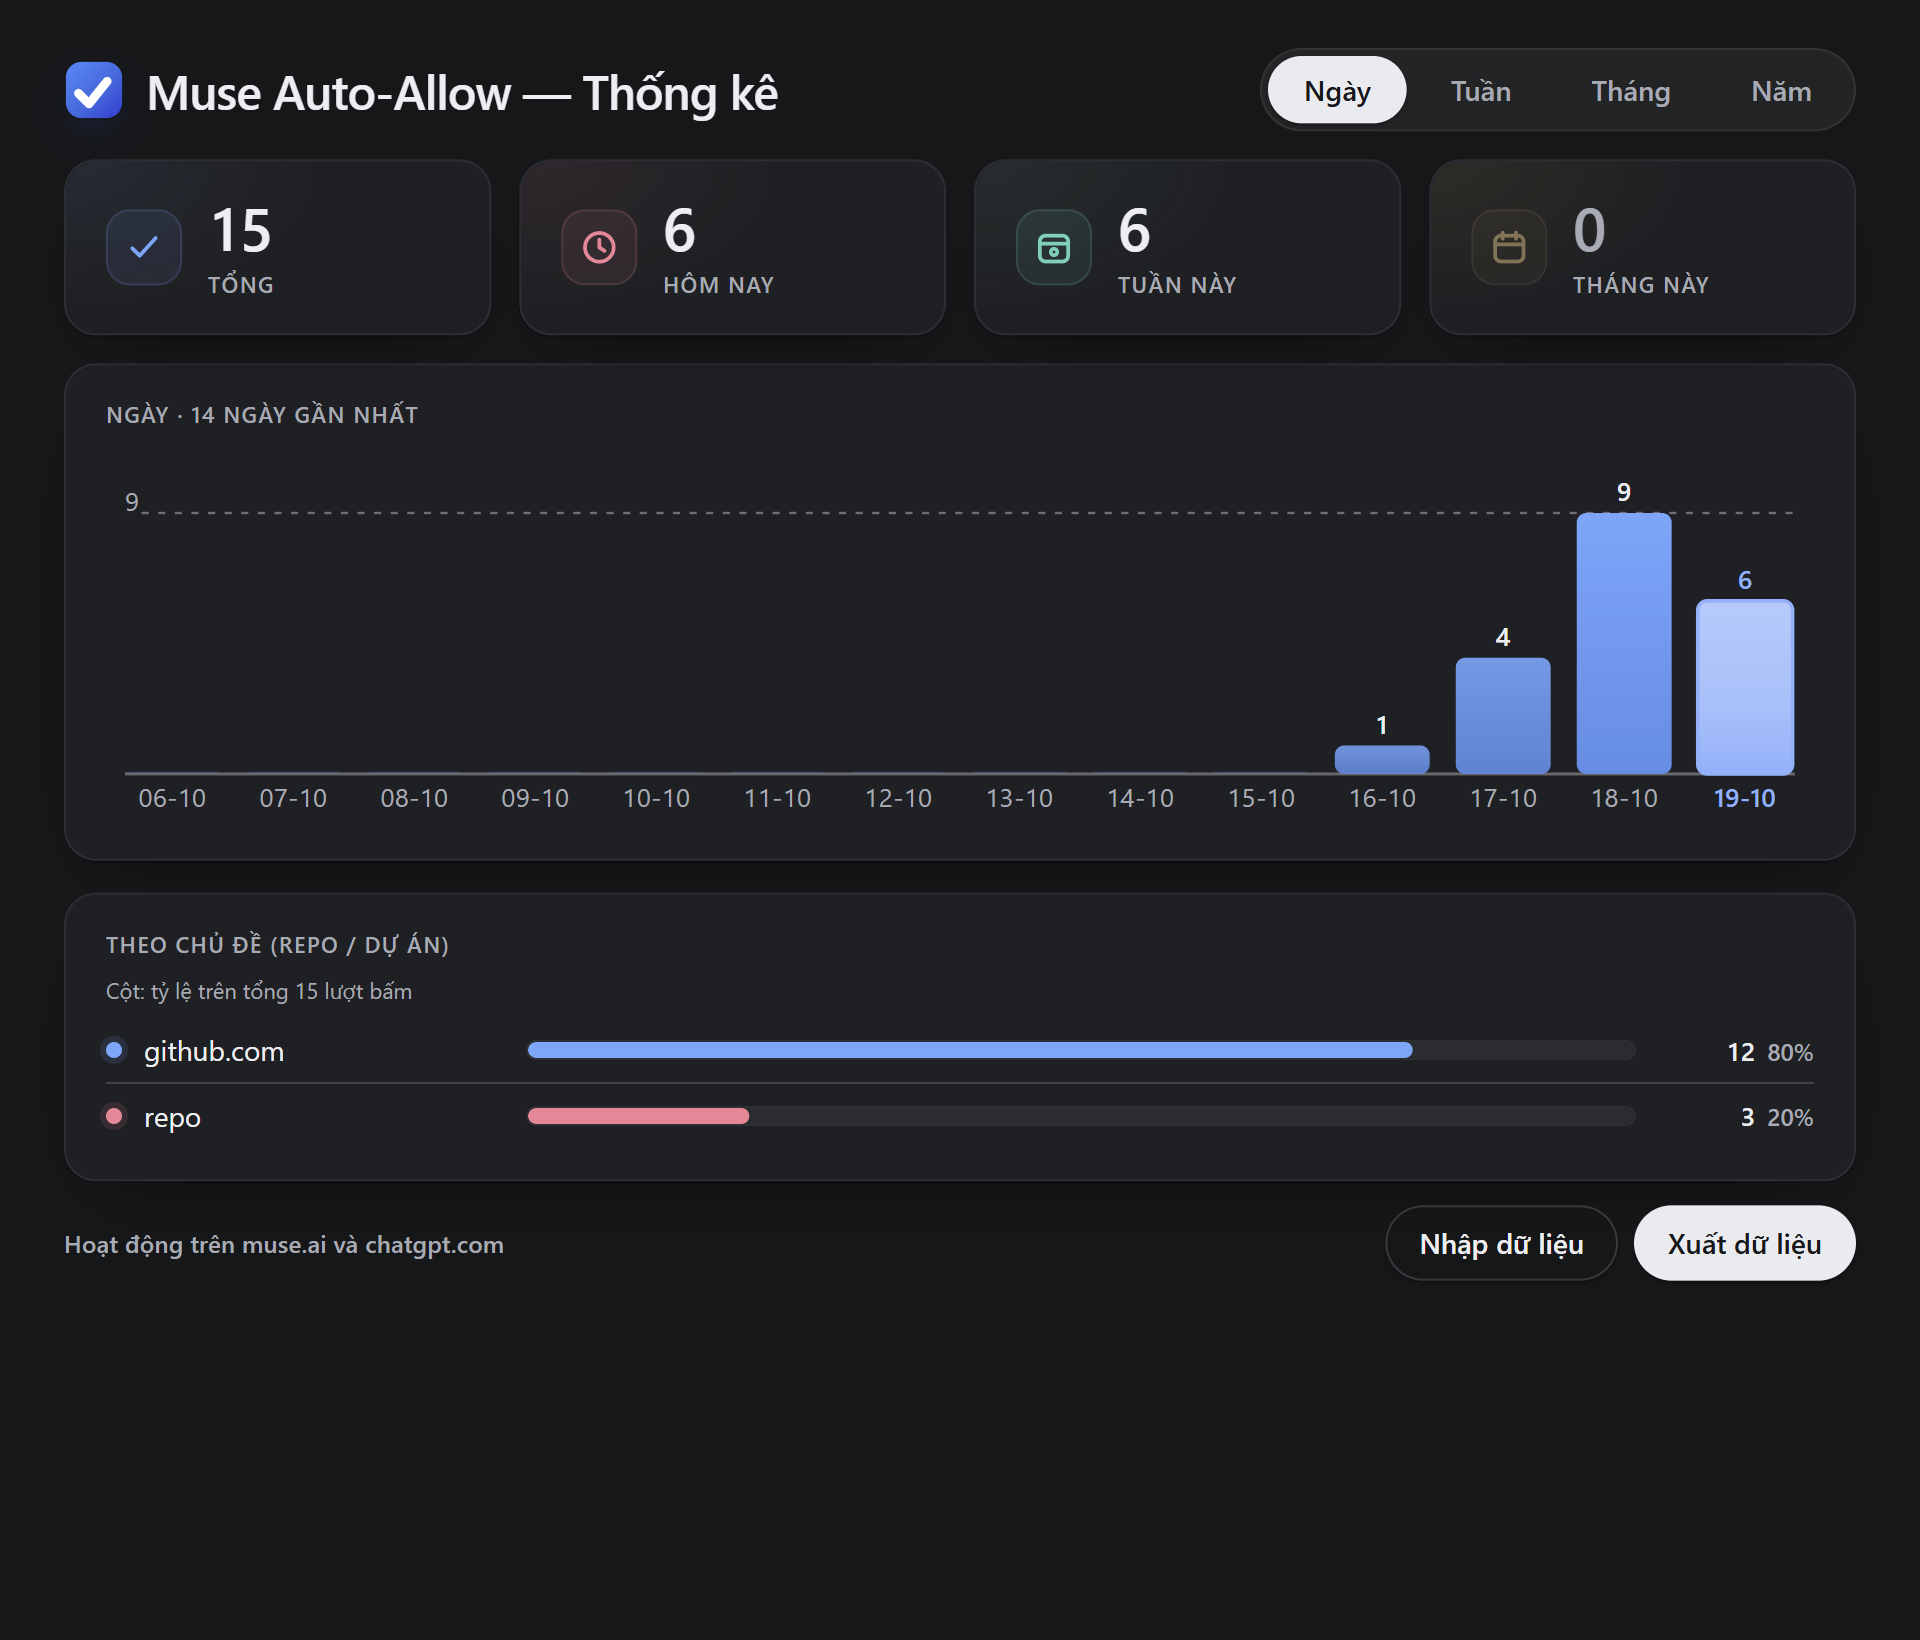
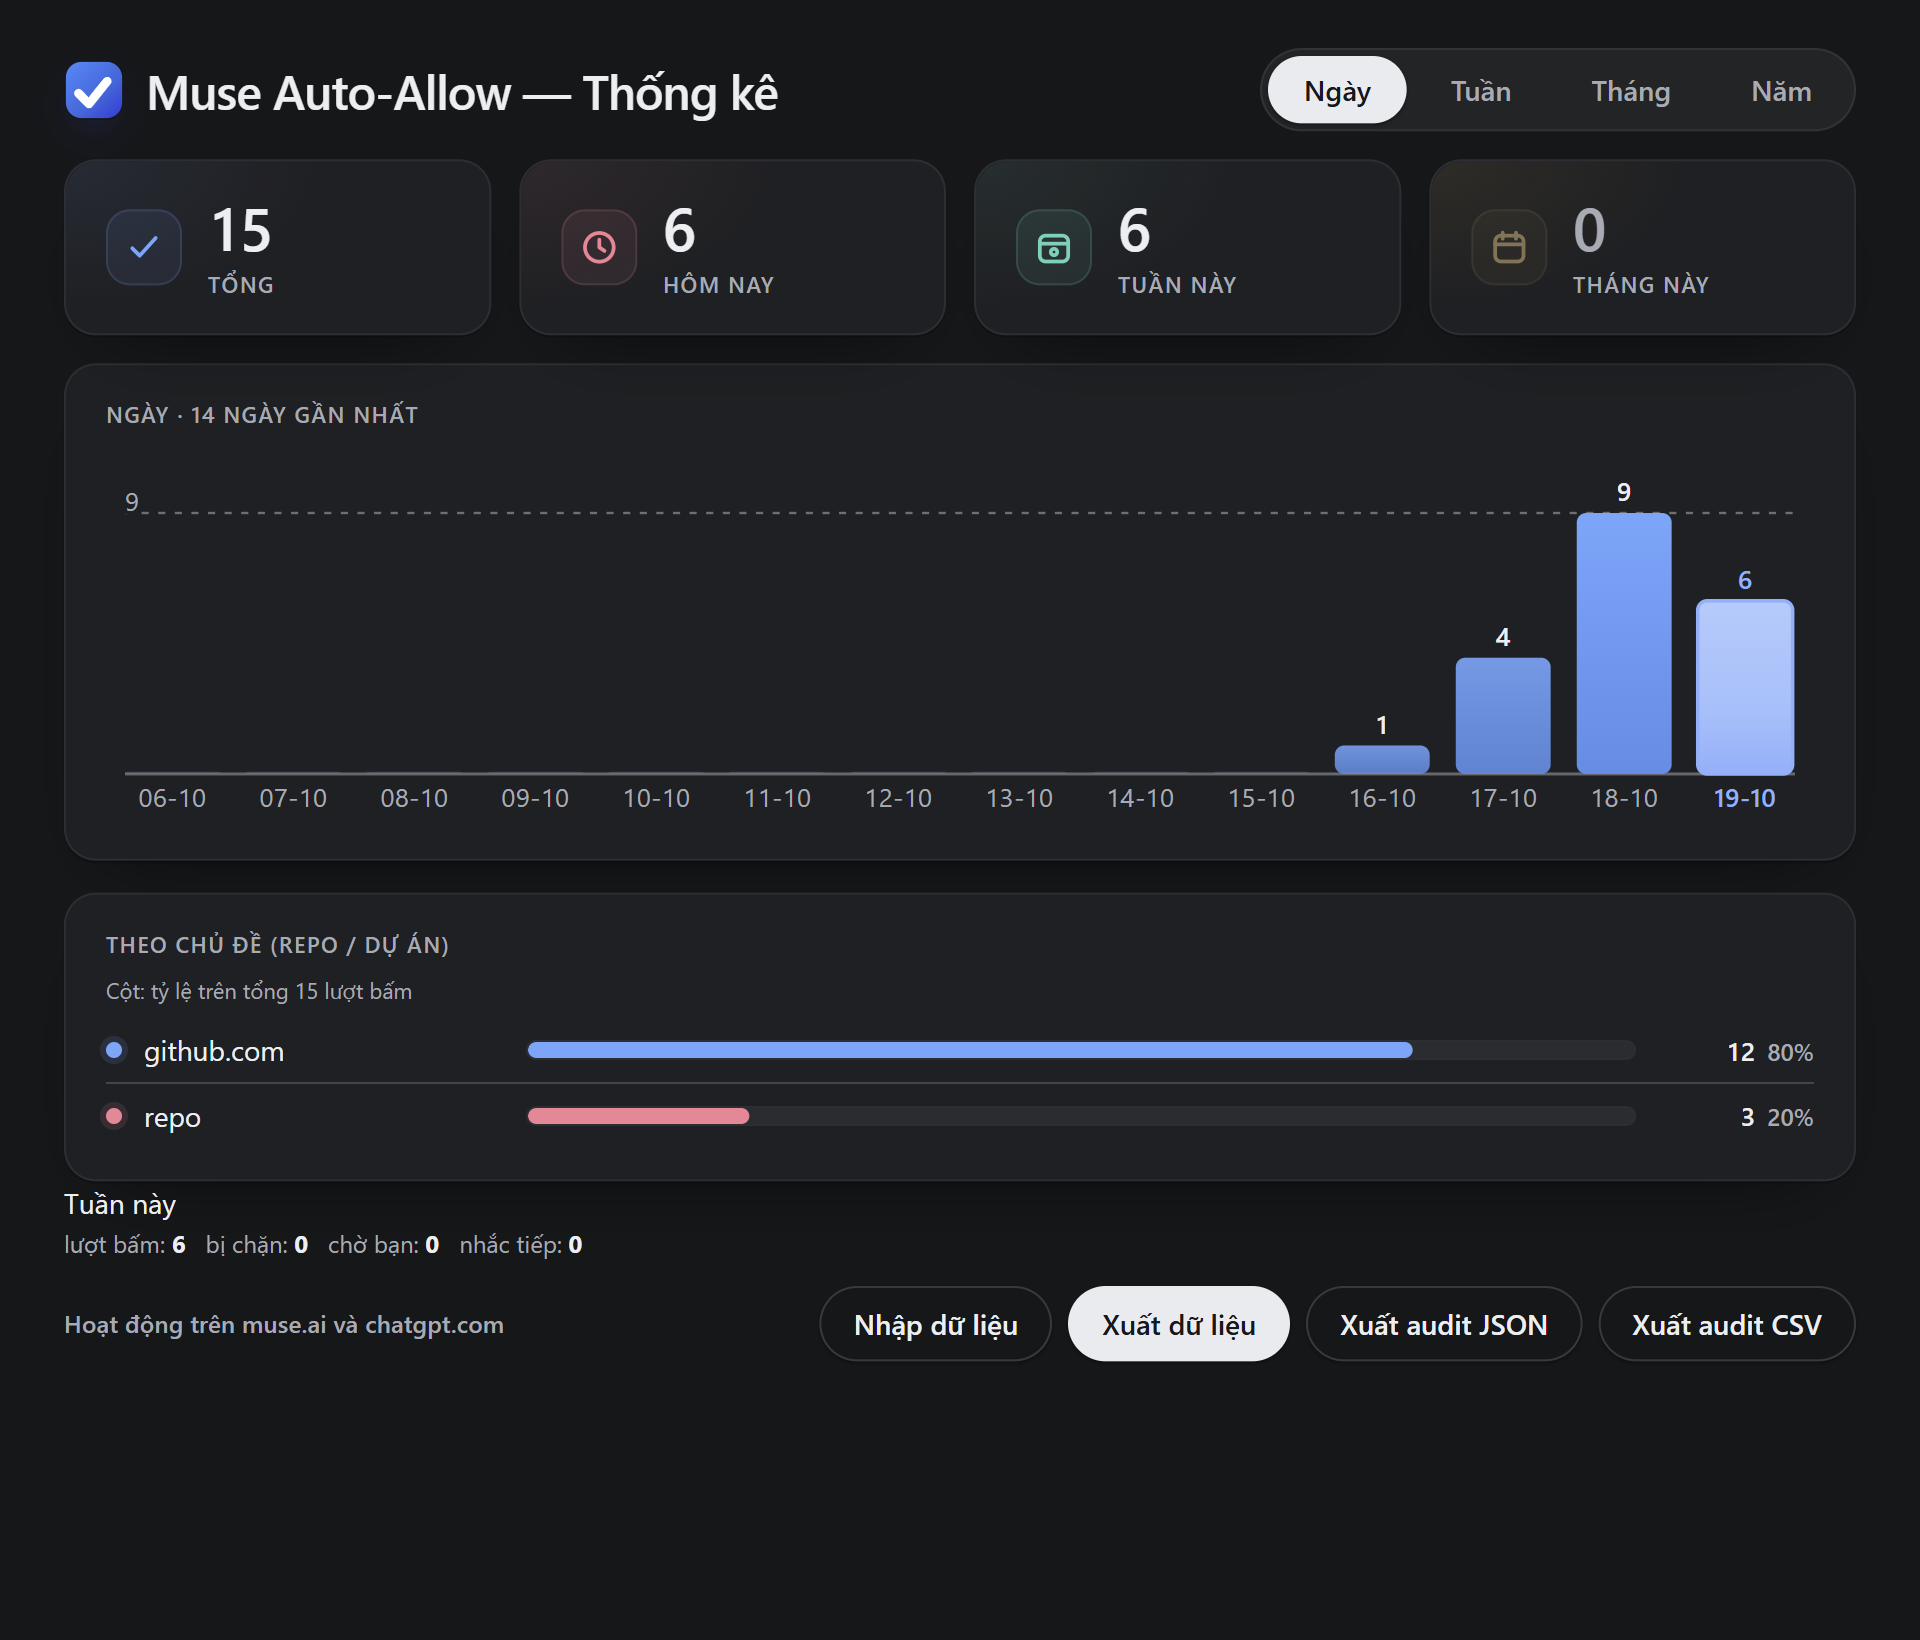
store kit v1.22.0: refresh screenshots from real UI (Safety shows the layered allow/ask/block rules), LISTING 1.22.0 + what's-new (1.19-1.22)

diff --git a/store/LISTING.md b/store/LISTING.md
@@ -15,7 +15,7 @@ dashboard (no repo value to fill).
 | Item name | **Muse Auto-Allow** |
 | Category | **Productivity** |
 | Default language | English (en) |
-| Version | 1.21.0 |
+| Version | 1.22.0 |
 | Manifest version | Manifest V3 |
 | Extension package | `dist/muse-auto-allow-v1.18.0.zip` |
 | License | MIT © 2026 BlueSkyz Labs |
@@ -628,7 +628,7 @@ The dashboard requires these images. Provide them at the exact sizes below.
 | Asset | Requirement | Source in this repo | Status |
 |---|---|---|---|
 | Extension icon | 128×128 px PNG | `extension/icons/icon128.png` | ✅ present |
-| Screenshots | 1280×800 px PNG (up to 5) | `store/screenshot1.png` (live runtime capture, v1.21.0), `store/screenshot2-stats.png` (Statistics), `store/screenshot3-popup.png` (popup on stage), `store/screenshot4-overview.png` (designed overview), `store/screenshot5-safety.png` (Safety & Control panel: anomaly auto-pause + license, v1.21.0) | ✅ 5 present, all verified 1280×800 |
+| Screenshots | 1280×800 px PNG (up to 5) | `store/screenshot1.png` (live runtime capture, v1.22.0), `store/screenshot2-stats.png` (Statistics), `store/screenshot3-popup.png` (popup on stage), `store/screenshot4-overview.png` (designed overview), `store/screenshot5-safety.png` (Safety & Control panel: layered allow/ask/block rules with JSON import/export, v1.22.0) | ✅ 5 present, all verified 1280×800 |
 | Small promo tile | 440×280 px PNG | `store/promo440x280.png` | ✅ present (verified 440×280) |
 | Marquee promo tile | 1400×560 px (optional) | `store/marquee1400x560.png` | ✅ present (verified 1400×560) |
 
@@ -643,7 +643,9 @@ Chrome from the package), the five 1280×800 screenshots, the 440×280 promo til
 Screenshot guidance (verify before submit that the uploaded images match these sizes): show the real Muse approval card with the extension's popup open
 (click counter + log visible). Do **not** use a mockup that implies the extension does
 anything beyond its single purpose, and do not put misleading wording in the image.
-**What's new (1.19–1.21):** screened log with day groups, filters and search · an anomaly
+**What's new (1.19–1.22):** **layered allow / ask / block rules** with JSON import/export and a
+validate-before-apply import · **audit export** (JSON/CSV) plus a "This week" summary on the
+Statistics page · screened log with day groups, filters and search · an anomaly
 guard that pauses the engine by itself on a sustained rate or a topic spike (it can only ADD a
 pause) · a daily briefing in the popup (top block reason + 7-day trend) · **Mission Playbooks**:
 parameterised, previewed playbook runs (`{{project}}`/`{{branch}}`) with per-playbook narrowing
